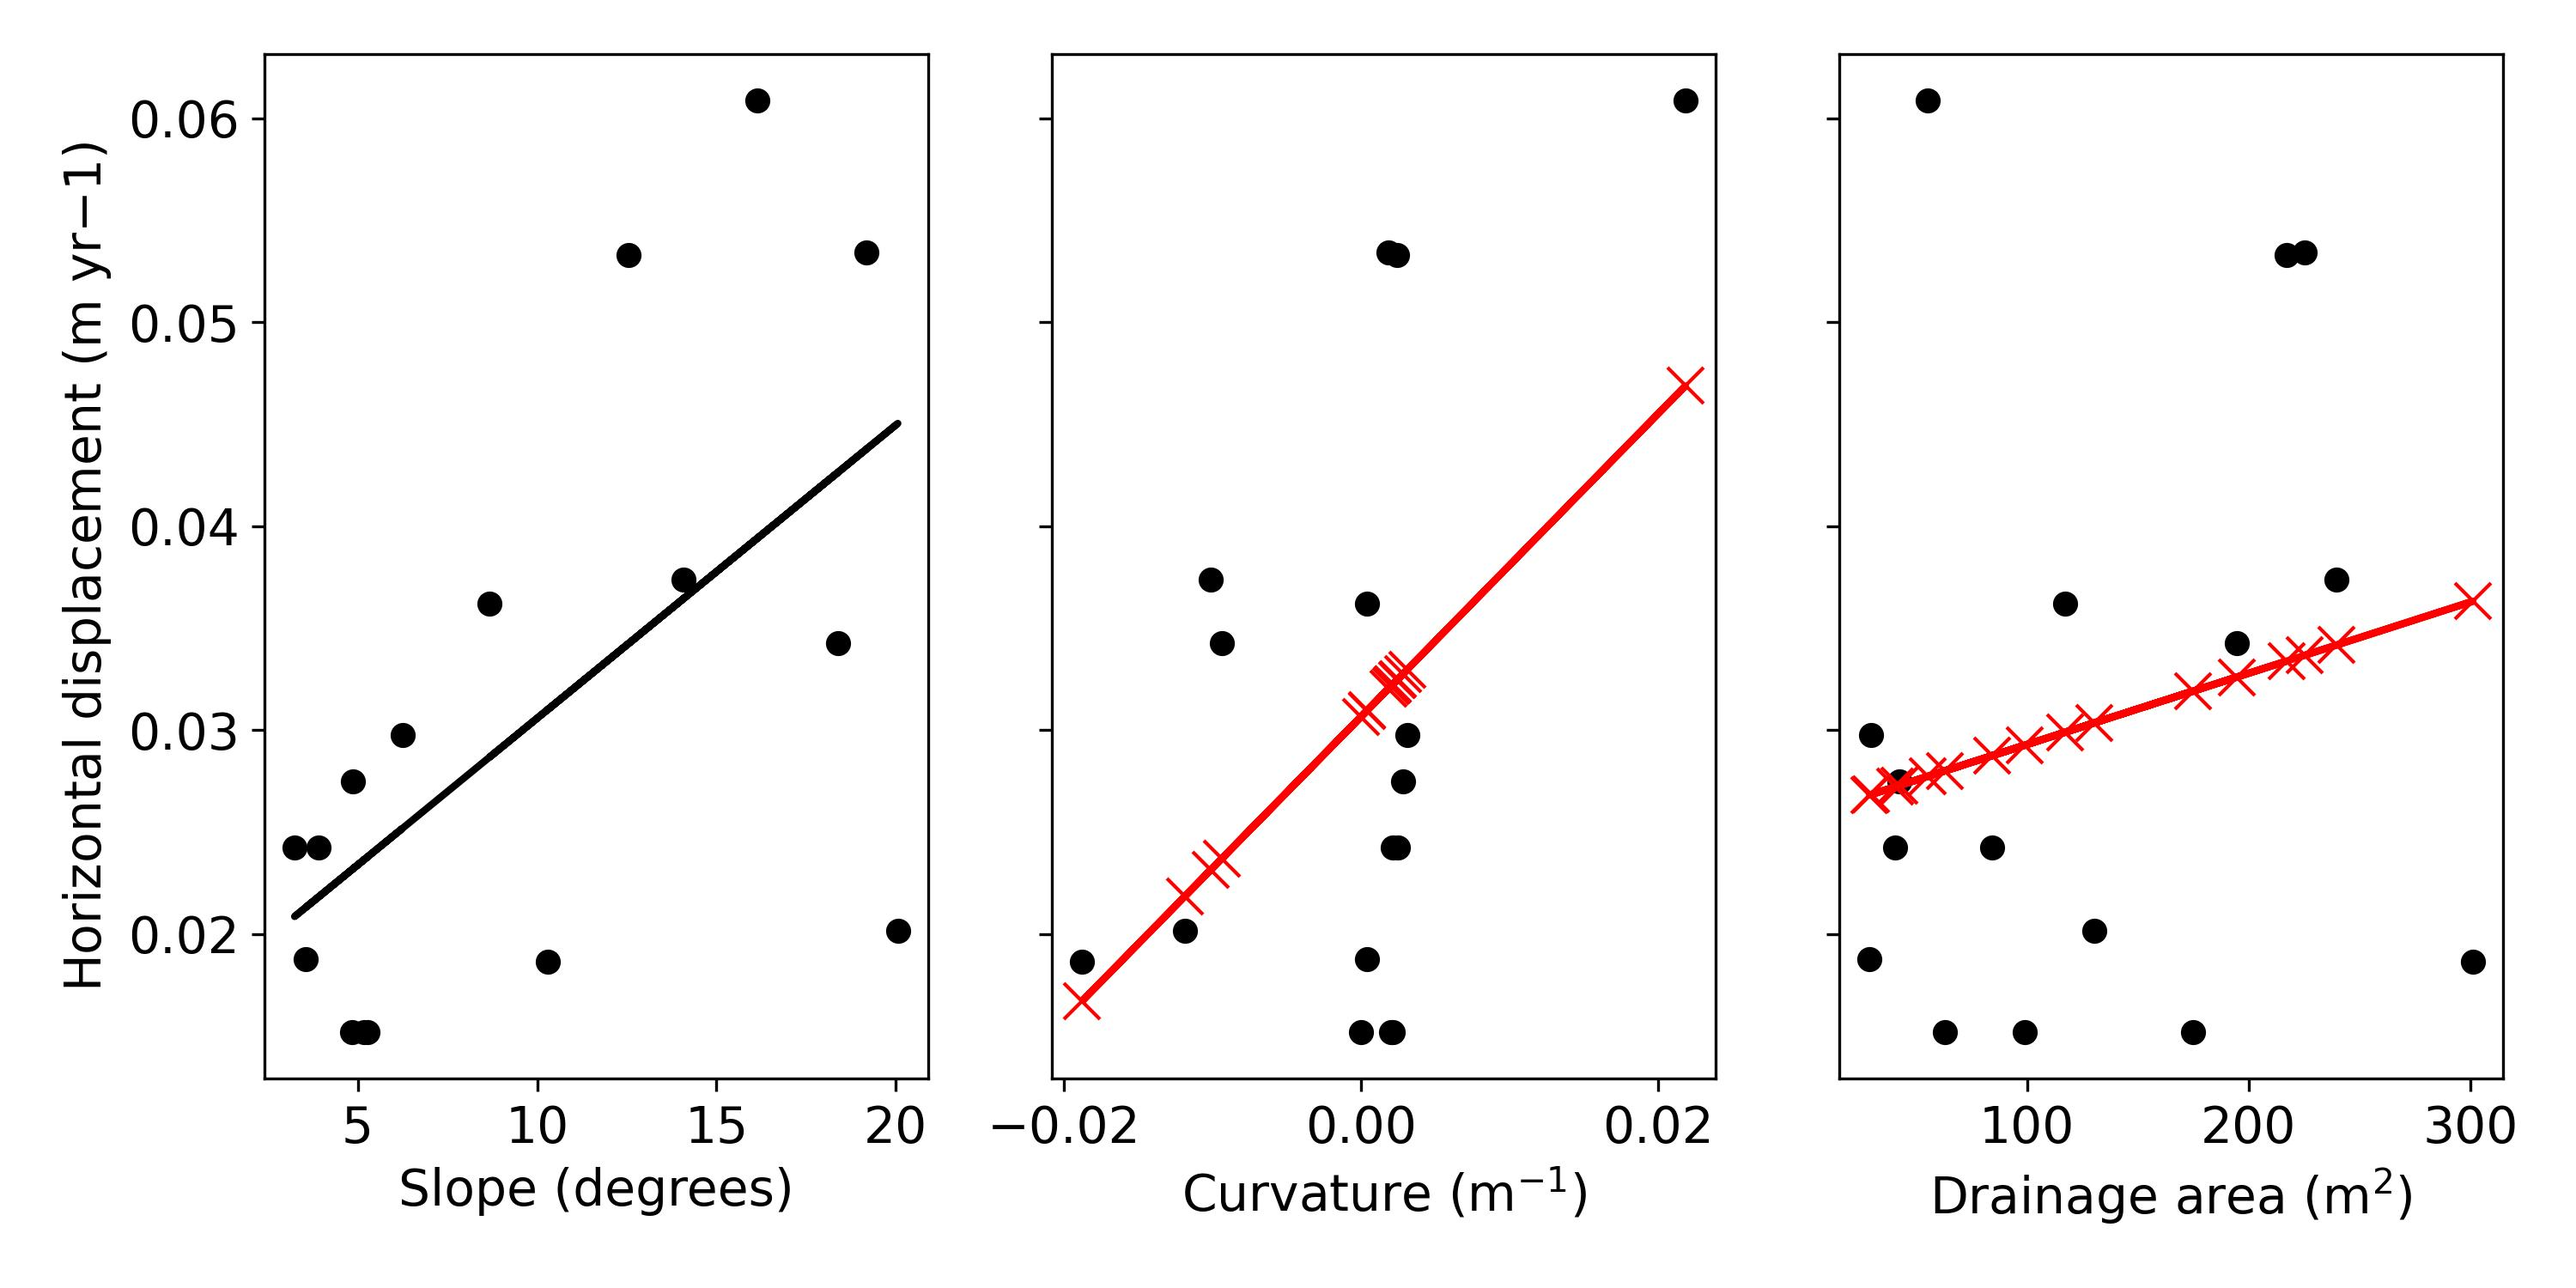
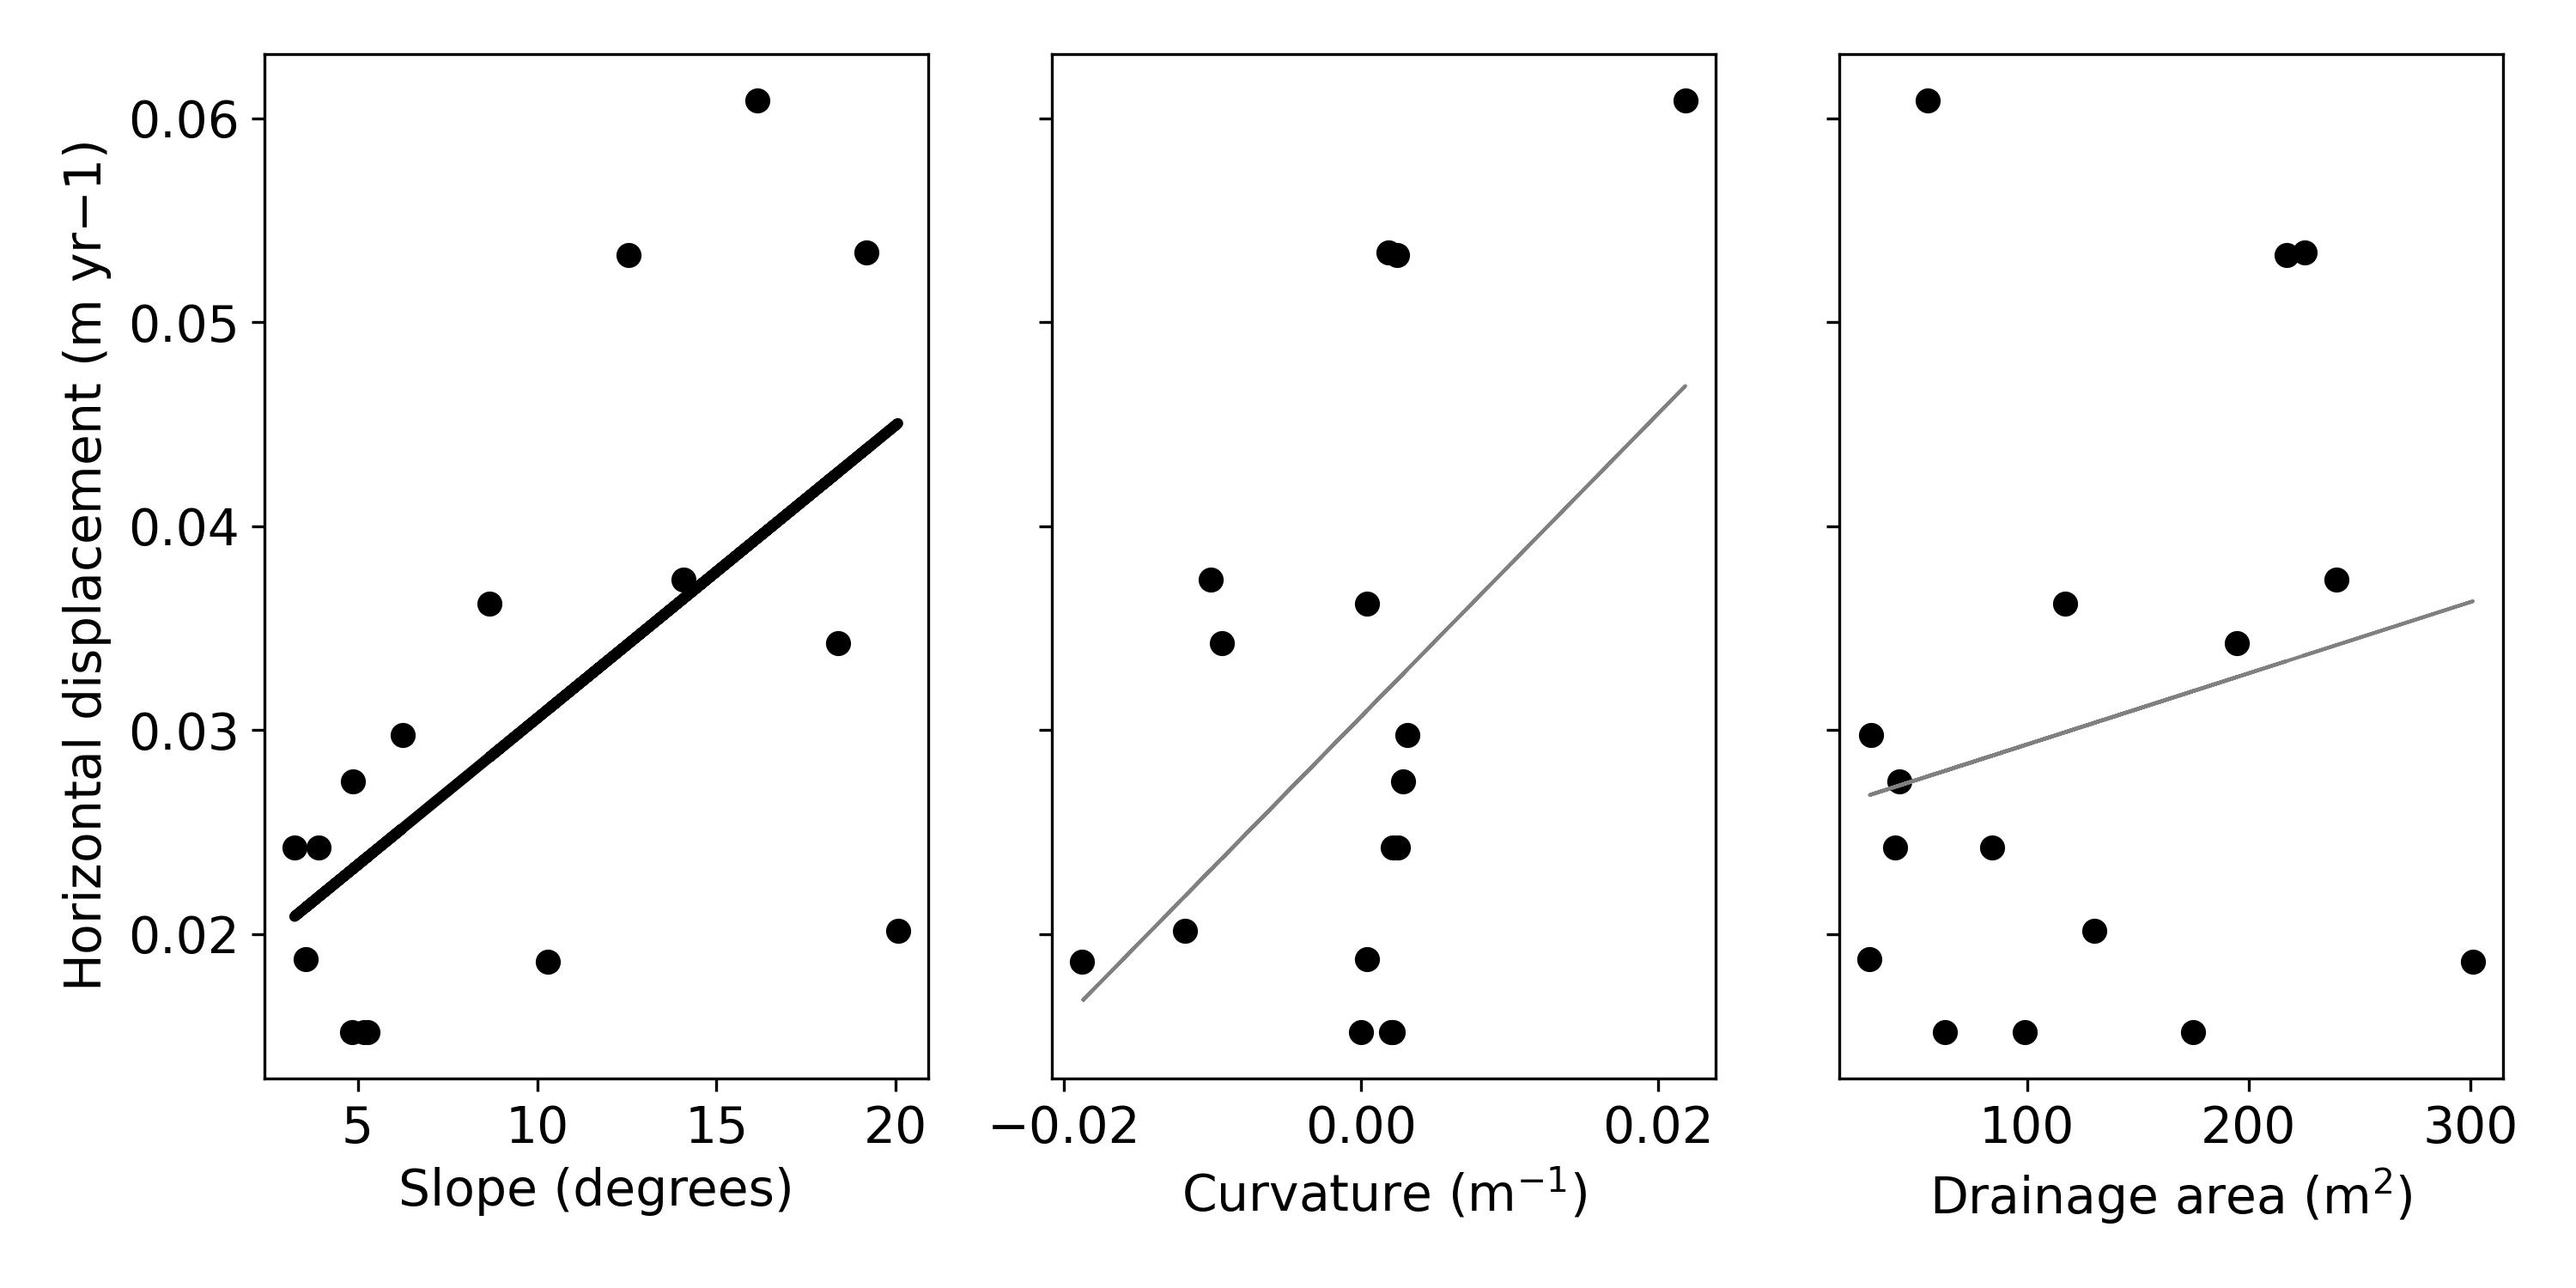
update fig plotting code and outputfigures

diff --git a/pythonScripts/CorvariatePlotting.py b/pythonScripts/CorvariatePlotting.py
@@ -5,7 +5,7 @@ import pandas as pd
 import numpy as np
 plt.rcParams.update({'font.size': 14})
 df_sites = pd.read_csv('/Users/evanthaler/Documents/Projects/permafrost/permafrostCarbon/FinalCleanedFiles/wDisplacement/TL47TL27StocksDisplacement_covariates.csv')
-
[1 lines of base64/hex data omitted]
 #################################
 #Displacement fit all data ######
 #################################
@@ -56,6 +56,7 @@ def fitDispAllData(df,outfig,xcol='mean_disp_rate',ycol='Total_C_stock_kg_m2_0to
 
 
 fitDispAllData(df_sites,'/Users/evanthaler/Documents/Projects/permafrost/permafrostCarbon/figs/SOCStock_DisplacementCombinedSites.jpg')
+
 ###################################################################
 def normalizeDisplacement(df,site,dispcol = 'mean_disp_rate',sitecol='Site'):
     df_site = df[df[sitecol]==site]
@@ -99,21 +100,21 @@ for ax, col in zip(axes, cols):
     ax.plot(tl47_df[col],tl47_df.mean_disp_rate,  'ok', label='TL47')
     ax.plot(tl27_df[col],tl27_df.mean_disp_rate,  'ob', label='TL27')
     if linstats_47.pvalue < 0.05:
-        ax.plot(tl47_df[col], yline_47, '-k', lw=2)
+        ax.plot(tl47_df[col], yline_47, '-k', lw=3)
     else:
-        ax.plot(tl47_df[col], yline_47, 'x-r', lw=2, ms=10)
+        ax.plot(tl47_df[col], yline_47, '-',color='gray', lw=1, ms=10)
     if linstats_27.pvalue < 0.05:
-        ax.plot(tl27_df[col], yline_27, '-b', lw=2)
+        ax.plot(tl27_df[col], yline_27, '-b', lw=3)
     else:
-        ax.plot(tl27_df[col], yline_27, 'x-r', lw=2, ms=10)
+        ax.plot(tl27_df[col], yline_27, '-',color='gray', lw=1, ms=10)
     ax.set_xlabel(col)
     print(f"{col} | TL47 p={linstats_47.pvalue:.3g}, TL27 p={linstats_27.pvalue:.3g}")
 for ax in axes[[0]]:
     ax.set_ylabel('Horizontal displacement (m yr$^{-1}$)')
 
-axes[1].legend(loc='upper left')
+axes[0].legend(loc='best')
 plt.tight_layout()
-plt.savefig('/Users/evanthaler/Documents/Projects/permafrost/permafrostCarbon/figs/DisplacementCovariates.jpg', dpi=300)
+plt.savefig(f'{figoutdir}/DisplacementCovariates.jpg', dpi=300)
 plt.show()
 
 #########
@@ -129,21 +130,21 @@ for ax, col in zip(axes, cols):
     ax.plot(tl47_df[col],tl47_df.Total_C_stock_kg_m2_0to50cm , 'ok', label='TL47')
     ax.plot(tl27_df[col],tl27_df.Total_C_stock_kg_m2_0to50cm, 'ob', label='TL27')
     if linstats_47.pvalue < 0.05:
-        ax.plot(tl47_df[col], yline_47, '-k', lw=2)
+        ax.plot(tl47_df[col], yline_47, '-k', lw=3)
     else:
-        ax.plot(tl47_df[col], yline_47, 'x-r', lw=2, ms=10)
+        ax.plot(tl47_df[col], yline_47, '-',color='gray', lw=1, ms=10)
     if linstats_27.pvalue < 0.05:
-        ax.plot(tl27_df[col], yline_27, '-b', lw=2)
+        ax.plot(tl27_df[col], yline_27, '-b', lw=3)
     else:
-        ax.plot(tl27_df[col], yline_27, 'x-r', lw=2, ms=10)
+        ax.plot(tl27_df[col], yline_27, '-',color='gray', lw=1, ms=10)
     ax.set_xlabel(col)
     print(f"{col} | TL47 p={linstats_47.pvalue:.3g}, TL27 p={linstats_27.pvalue:.3g}")
 for ax in axes[[0]]:
     ax.set_ylabel('Soil organic carbon stocks (kg m$^{-2}$)')
 
-axes[1].legend(loc='upper right')
+axes[0].legend(loc='best')
 plt.tight_layout()
-plt.savefig('/Users/evanthaler/Documents/Projects/permafrost/permafrostCarbon/figs/CstocksCovariates.jpg', dpi=300)
+plt.savefig(f'{figoutdir}/CstocksCovariates.jpg', dpi=300)
 plt.show()
 
 
@@ -161,9 +162,9 @@ for ax, col in zip(axes, cols):
     ax.plot(x,y, 'ok')
     print(f"{col} | p={linstats_carb.pvalue:.3g}")
     if linstats_carb.pvalue < 0.05:
-        ax.plot(x, yline_disp, '-k', lw=2)
+        ax.plot(x, yline_disp, '-k', lw=3)
     else:
-        ax.plot(x, yline_disp, 'x-r', lw=2, ms=10)
+        ax.plot(x, yline_disp, '-',color='gray', lw=1, ms=10)
 
     ax.set_xlabel(col)
 
@@ -171,7 +172,7 @@ for ax in axes[[0]]:
     ax.set_ylabel('Soil organic carbon stocks (kg m$^{-2}$)')
 
 plt.tight_layout()
-plt.savefig('/Users/evanthaler/Documents/Projects/permafrost/permafrostCarbon/figs/CstocksCovariates_BothSites.jpg', dpi=300)
+plt.savefig(f'{figoutdir}/CstocksCovariates_BothSites.jpg', dpi=300)
 plt.show()
 
 
@@ -189,9 +190,9 @@ for ax, col in zip(axes, cols):
     ax.plot(x,y, 'ok')
     print(f"{col} | p={linstats_carb.pvalue:.3g}")
     if linstats_carb.pvalue < 0.05:
-        ax.plot(x, yline_disp, '-k', lw=2)
+        ax.plot(x, yline_disp, '-k', lw=3)
     else:
-        ax.plot(x, yline_disp, 'x-r', lw=2, ms=10)
+        ax.plot(x, yline_disp, '-',color='gray', lw=1, ms=10)
 
     ax.set_xlabel(col)
 
@@ -199,5 +200,5 @@ for ax in axes[[0]]:
     ax.set_ylabel('Horizontal displacement (m yr${-1}$)')
 
 plt.tight_layout()
-plt.savefig('/Users/evanthaler/Documents/Projects/permafrost/permafrostCarbon/figs/DisplacementCovariates_BothSites.jpg', dpi=300)
+plt.savefig(f'{figoutdir}/DisplacementCovariates_BothSites.jpg', dpi=300)
 plt.show()
